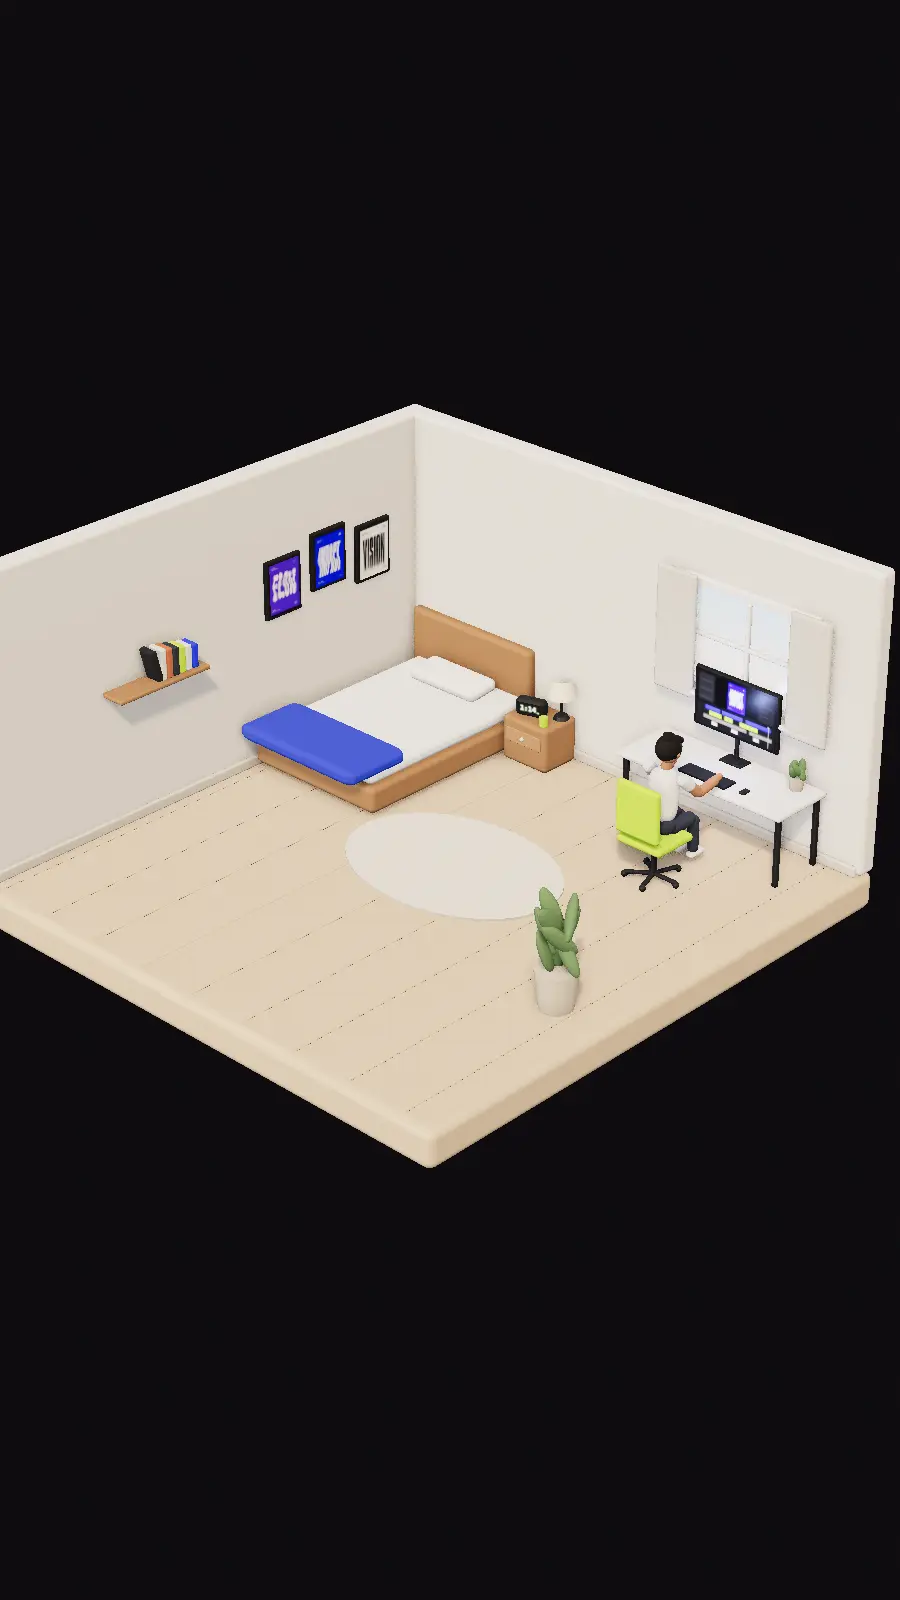
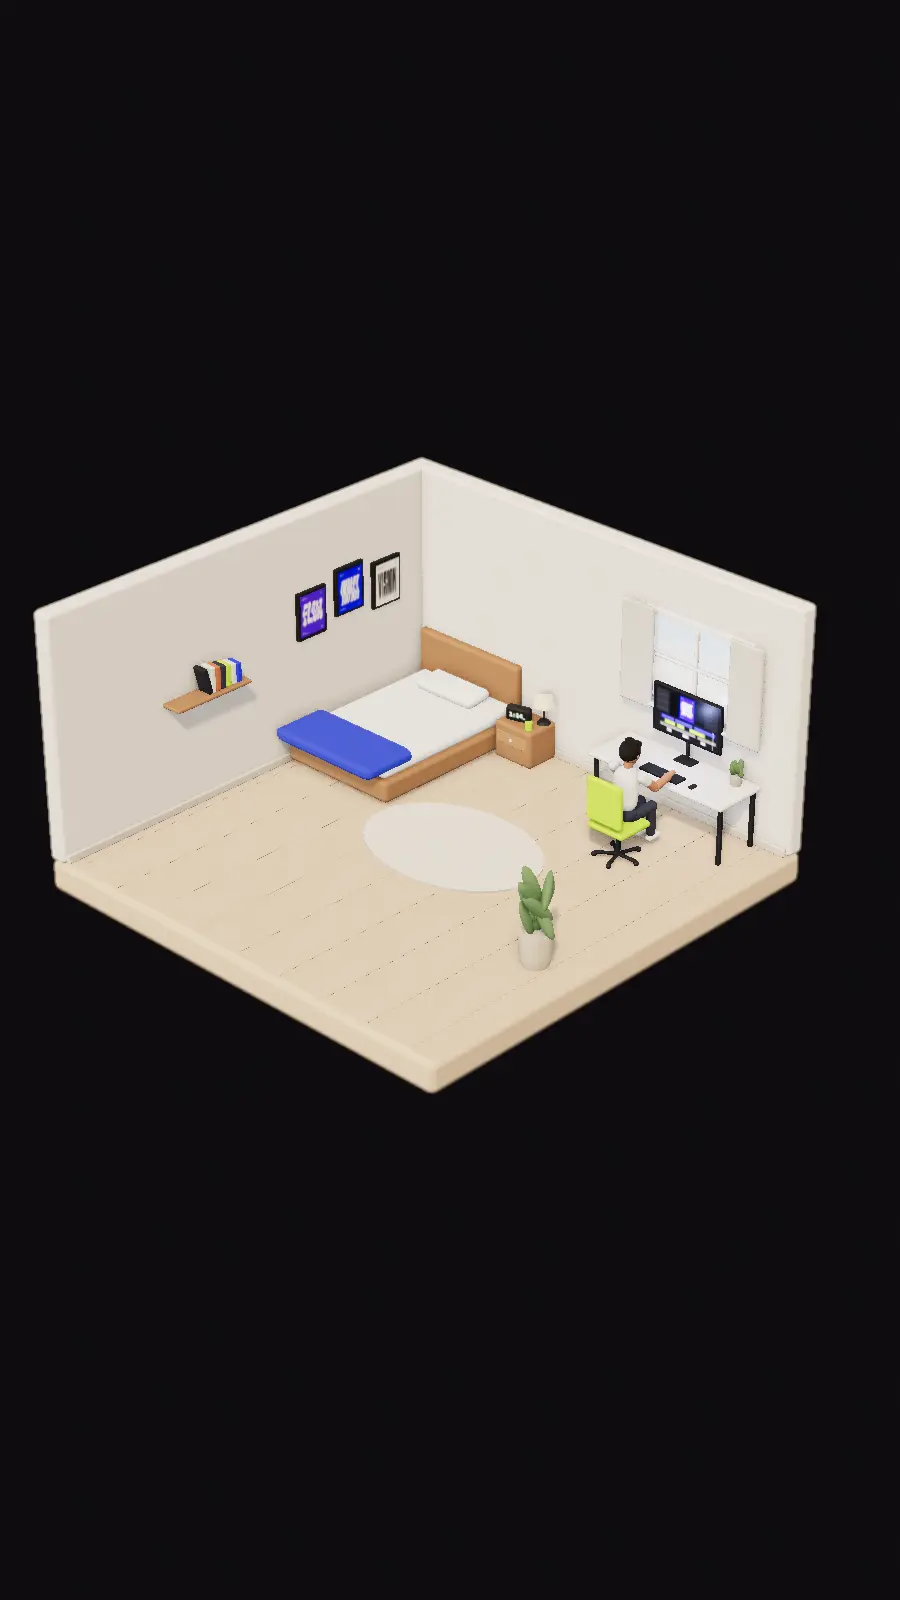
iter-32: closing shot frames the room right, title on dark (90, kept)
Claude-Session: https://claude.ai/code/session_01CiSb6C6rkE4qt8bQwbiibB

Changed region(s): [[0.0, 0.25, 0.9956, 0.75], [0.0933, 0.5, 0.1867, 0.5312]]

diff --git a/src/scripts/room3d.ts b/src/scripts/room3d.ts
@@ -511,9 +511,10 @@ export function mountRoom(stage: HTMLElement, getProgress: () => number, onFirst
     [0.62, new Vector3(3.6, 3.2, 3.6), new Vector3(0.2, 0.8, -1.2)],
     [0.76, new Vector3(3.0, 1.9, 0.6), new Vector3(1.6, 1.1, -2.2)],
     [0.9, new Vector3(2.55, 1.55, -0.55), new Vector3(1.65, 1.35, -2.75)],
-    [1.0, new Vector3(8.6, 7.4, 8.6), new Vector3(0, 0.7, -0.4)],
+    [1.0, new Vector3(10.4, 8.9, 10.4), new Vector3(0, 0.6, -0.4)],
   ];
-  const camPos = new Vector3(), camLook = new Vector3(), dir = new Vector3();
+  const camPos = new Vector3(), camLook = new Vector3(), dir = new Vector3(), side = new Vector3();
+  const UP = new Vector3(0, 1, 0);
   let aspect = 16 / 9;
   const placeCamera = (p: number) => {
     let i = 0;
@@ -524,6 +525,12 @@ export function mountRoom(stage: HTMLElement, getProgress: () => number, onFirst
     camLook.lerpVectors(l0, l1, t);
     const f = clamp(1.25 / aspect, 1, 2.1);
     dir.subVectors(camPos, camLook).multiplyScalar(f);
+    // the closing wide shot on wide screens: frame the room to the right so the title sits on the dark
+    if (aspect > 1.2) {
+      const k = ease(clamp((p - 0.9) / 0.1)) * Math.min(4.4, (aspect - 1.0) * 5.0);
+      side.crossVectors(dir, UP).normalize().multiplyScalar(k);
+      camLook.add(side);
+    }
     camera.position.copy(camLook).add(dir);
     camera.lookAt(camLook);
   };
@@ -620,7 +627,10 @@ export function mountRoom(stage: HTMLElement, getProgress: () => number, onFirst
     screenLight.intensity = on * 0.9;
 
     placeCamera(p);
-    if (bokeh) (bokeh.uniforms as any).focus.value = camera.position.distanceTo(camLook);
+    if (bokeh) {
+      (bokeh.uniforms as any).focus.value = dir.length();
+      (bokeh.uniforms as any).aperture.value = 0.0016 * (1 - seg(p, 0.88, 1) * 0.85);
+    }
     composer.render();
     if (first) { first = false; onFirstFrame(); }
     if (visible) raf = requestAnimationFrame(frame);

diff --git a/iterations/LOG.md b/iterations/LOG.md
@@ -226,3 +226,8 @@ Step-back review (iter-30). Since the film went in, the risk is time: seven scre
 Lens: distinctiveness. Added a BokehPass (desktop only, after GTAO) with focus locked each frame to the camera-to-subject distance, aperture 0.0016, max blur 0.006. The clock close-up gets a macro-lens falloff on the lamp and drawer; over-the-shoulder at the desk softens his head in the foreground; the wide end shot stays crisp. This is the visual cue that makes a 3D room read as a hand-made miniature. Phones keep the plain render (no AO, no DOF) for speed.
 - Scores: H8 T9 C8 S9 D10 M8 I9 K9 A10 P9 = 89.
 - Decision: KEPT.
+
+## iter-32 · Closing shot frames the room right so the title sits on dark
+Lens: colour and contrast. The closing wide shot centred the room, so the white headline sat over the cream floor slab. On wide screens the camera now pans along its right axis as it pulls back (up to 4.4 units by aspect), placing the room centre-right with the headline on the dark background; the final camera is further out so the whole box fits. Depth of field eases off in the wide shot so the room stays crisp, and focus uses the subject distance, not the shifted look point. Phones keep the centred framing (title already sits on dark below the room). Posters regenerated to match.
+- Scores: H8 T9 C9 S9 D10 M8 I9 K9 A10 P9 = 90.
+- Decision: KEPT.

diff --git a/iterations/SCOREBOARD.md b/iterations/SCOREBOARD.md
@@ -37,5 +37,6 @@ Rubric (1–10 each): H hierarchy · T typography · C colour & contrast · S sp
 | 29 | 8 | 9 | 8 | 8 | 9 | 8 | 9 | 8 | 10 | 9 | **86** | REJECTED | 86; the shafts read as glass panels, not light |
 | 30 | 8 | 9 | 8 | 9 | 9 | 8 | 9 | 9 | 10 | 9 | **88** | KEPT | 88 |
 | 31 | 8 | 9 | 8 | 9 | 10 | 8 | 9 | 9 | 10 | 9 | **89** | KEPT | 89 |
+| 32 | 8 | 9 | 9 | 9 | 10 | 8 | 9 | 9 | 10 | 9 | **90** | KEPT | 90 |
 
-**CURRENT BEST: iter-31** (tag `best`; new baseline after the film hero)
+**CURRENT BEST: iter-32** (tag `best`; new baseline after the film hero)
